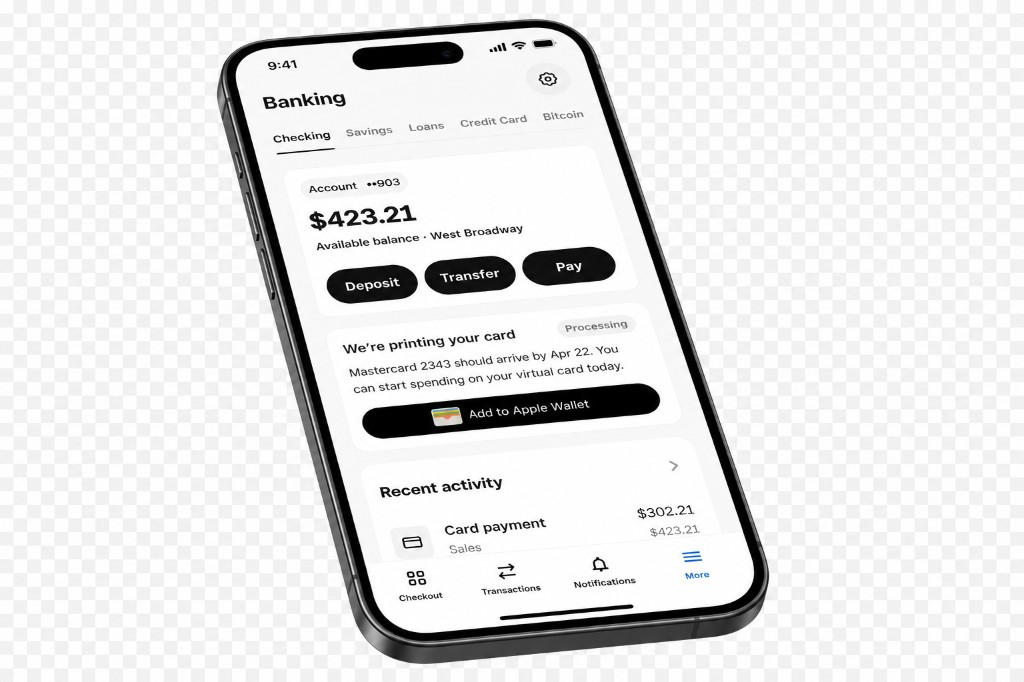
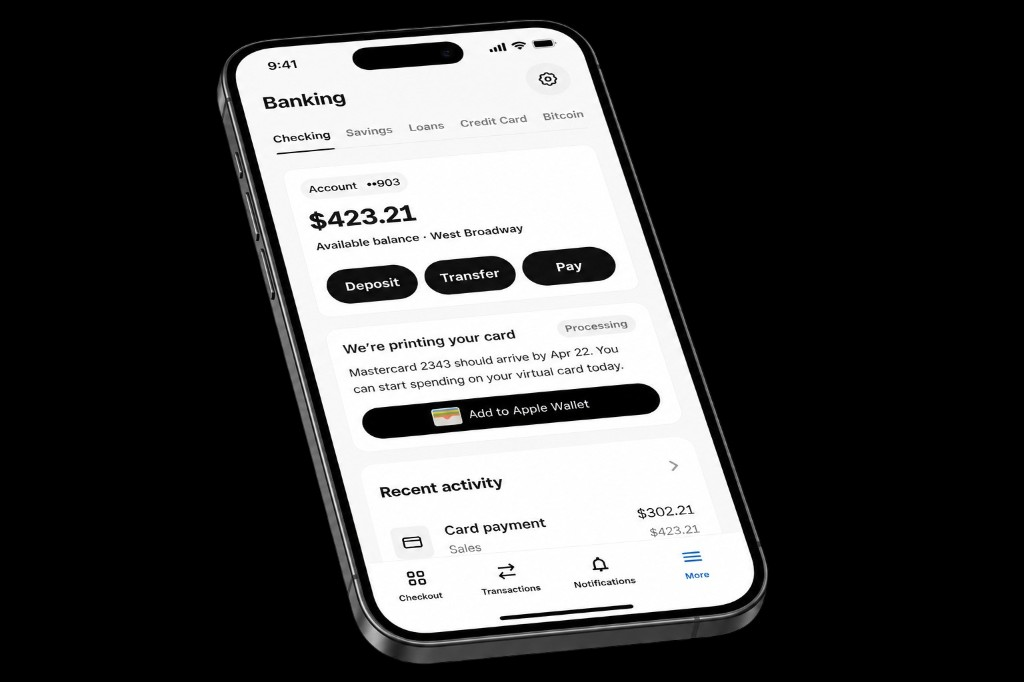
Update mobile hero image to new version and remove mix-blend-mode

diff --git a/styles.css b/styles.css
@@ -955,8 +955,6 @@ footer {
     margin: 0 auto;
     /* Add a subtle shadow to match the 3D feel */
     filter: drop-shadow(0 20px 30px rgba(0,0,0,0.15));
-    /* Use mix-blend-mode to remove the fake checkerboard background */
-    mix-blend-mode: multiply;
   }
 
   .glass-card.ai-card p {
